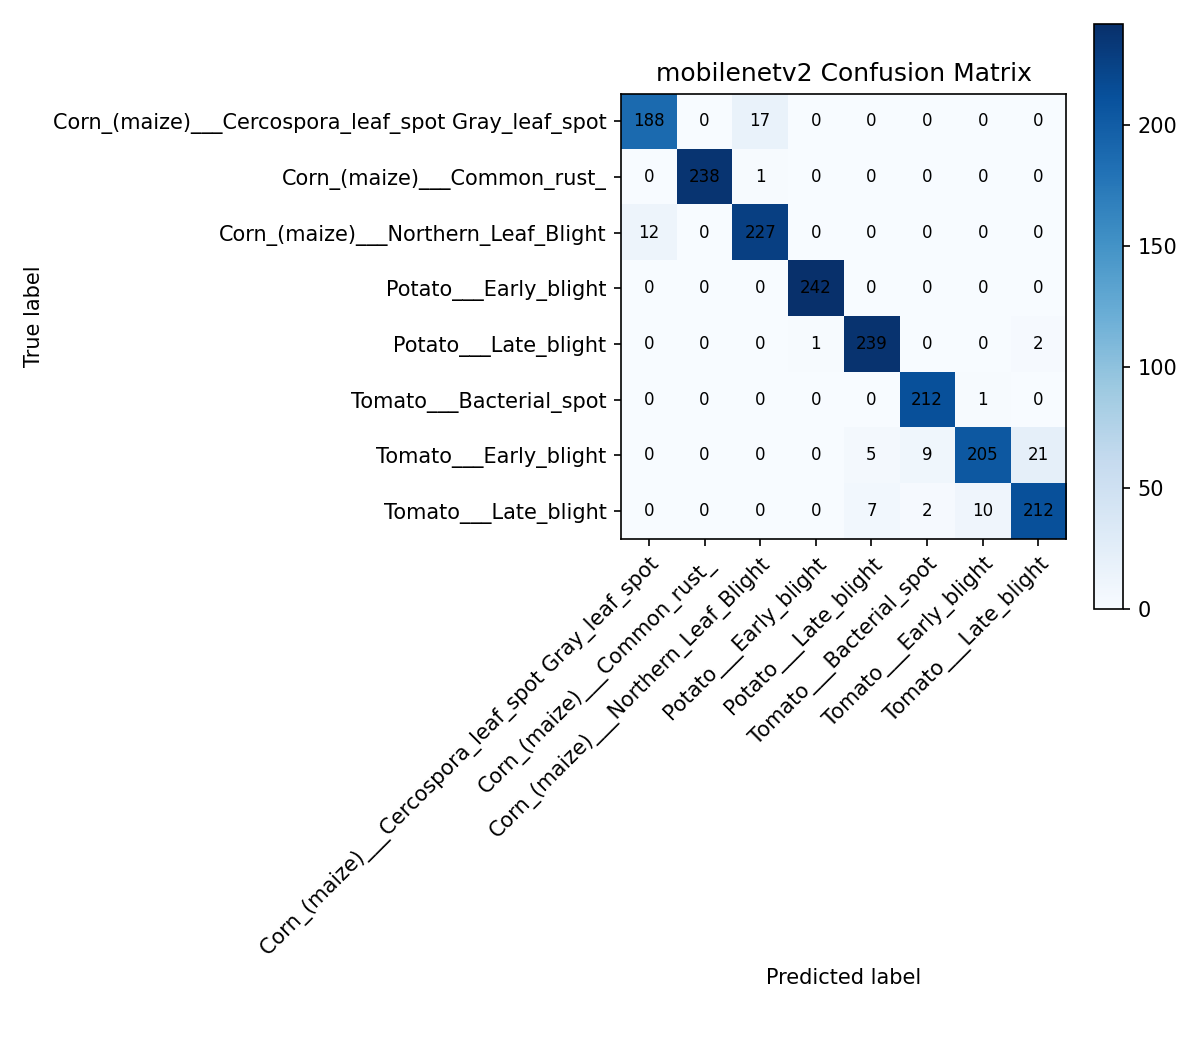
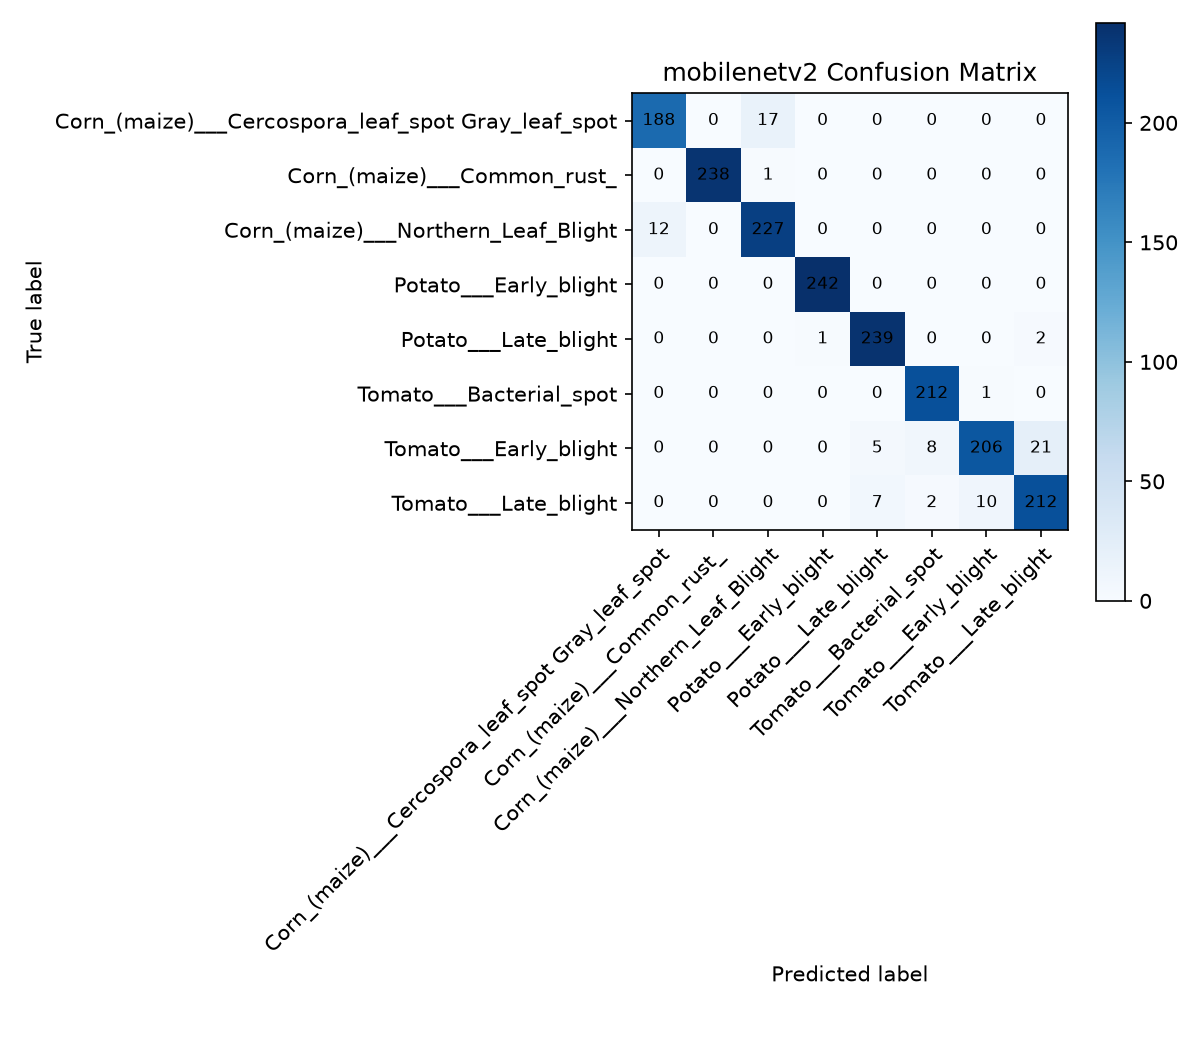
Add notebook-first EfficientNetB0 experiment

diff --git a/src/train_efficientnetb0.py b/src/train_efficientnetb0.py
@@ -1,0 +1,162 @@
+import argparse
+import json
+
+import matplotlib.pyplot as plt
+import tensorflow as tf
+
+from config import (
+    BATCH_SIZE,
+    EFFICIENTNET_EPOCHS,
+    FIGURES_DIR,
+    IMAGE_SIZE,
+    MODELS_DIR,
+    PROCESSED_DIR,
+    SEED,
+)
+from utils import make_dir
+
+
+def load_datasets(max_train_batches=None, max_valid_batches=None):
+    train_ds = tf.keras.utils.image_dataset_from_directory(
+        PROCESSED_DIR / "train",
+        image_size=IMAGE_SIZE,
+        batch_size=BATCH_SIZE,
+        label_mode="categorical",
+        seed=SEED,
+    )
+    valid_ds = tf.keras.utils.image_dataset_from_directory(
+        PROCESSED_DIR / "valid",
+        image_size=IMAGE_SIZE,
+        batch_size=BATCH_SIZE,
+        label_mode="categorical",
+        shuffle=False,
+    )
+
+    class_names = train_ds.class_names
+    if max_train_batches is not None:
+        train_ds = train_ds.take(max_train_batches)
+    if max_valid_batches is not None:
+        valid_ds = valid_ds.take(max_valid_batches)
+
+    autotune = tf.data.AUTOTUNE
+    return train_ds.prefetch(autotune), valid_ds.prefetch(autotune), class_names
+
+
+def build_efficientnetb0(num_classes):
+    data_augmentation = tf.keras.Sequential(
+        [
+            tf.keras.layers.RandomFlip("horizontal"),
+            tf.keras.layers.RandomRotation(0.04),
+            tf.keras.layers.RandomZoom(0.04),
+        ],
+        name="limited_augmentation",
+    )
+
+    base_model = tf.keras.applications.EfficientNetB0(
+        input_shape=(*IMAGE_SIZE, 3),
+        include_top=False,
+        weights="imagenet",
+    )
+    base_model.trainable = False
+
+    inputs = tf.keras.layers.Input(shape=(*IMAGE_SIZE, 3))
+    x = data_augmentation(inputs)
+    # EfficientNet includes its own input normalization layer.
+    x = base_model(x, training=False)
+    x = tf.keras.layers.GlobalAveragePooling2D()(x)
+    x = tf.keras.layers.Dropout(0.3)(x)
+    outputs = tf.keras.layers.Dense(num_classes, activation="softmax")(x)
+
+    model = tf.keras.Model(inputs, outputs, name="efficientnetb0_transfer")
+    model.compile(
+        optimizer=tf.keras.optimizers.Adam(learning_rate=0.0005),
+        loss="categorical_crossentropy",
+        metrics=["accuracy"],
+    )
+    return model
+
+
+def plot_history(history, output_name):
+    fig, axes = plt.subplots(1, 2, figsize=(10, 4))
+
+    axes[0].plot(history.history["accuracy"], label="Train")
+    axes[0].plot(history.history["val_accuracy"], label="Validation")
+    axes[0].set_title("EfficientNetB0 Accuracy")
+    axes[0].set_xlabel("Epoch")
+    axes[0].set_ylabel("Accuracy")
+    axes[0].legend()
+
+    axes[1].plot(history.history["loss"], label="Train")
+    axes[1].plot(history.history["val_loss"], label="Validation")
+    axes[1].set_title("EfficientNetB0 Loss")
+    axes[1].set_xlabel("Epoch")
+    axes[1].set_ylabel("Loss")
+    axes[1].legend()
+
+    plt.tight_layout()
+    output_path = FIGURES_DIR / output_name
+    plt.savefig(output_path, dpi=150)
+    plt.close()
+    print(f"Saved training curves: {output_path}")
+
+
+def parse_args():
+    parser = argparse.ArgumentParser(description="Train the optional EfficientNetB0 model.")
+    parser.add_argument("--epochs", type=int, default=EFFICIENTNET_EPOCHS)
+    parser.add_argument("--quick-test", action="store_true", help="Run a tiny training job for pipeline checking.")
+    parser.add_argument("--max-train-batches", type=int, default=None)
+    parser.add_argument("--max-valid-batches", type=int, default=None)
+    return parser.parse_args()
+
+
+def main():
+    args = parse_args()
+    make_dir(MODELS_DIR)
+    make_dir(FIGURES_DIR)
+
+    if args.quick_test:
+        args.epochs = min(args.epochs, 1)
+        args.max_train_batches = args.max_train_batches or 4
+        args.max_valid_batches = args.max_valid_batches or 2
+        print("Running EfficientNetB0 quick test. This is not a final model.")
+
+    train_ds, valid_ds, class_names = load_datasets(
+        max_train_batches=args.max_train_batches,
+        max_valid_batches=args.max_valid_batches,
+    )
+    (MODELS_DIR / "class_names.json").write_text(json.dumps(class_names, indent=2), encoding="utf-8")
+
+    model = build_efficientnetb0(num_classes=len(class_names))
+    model.summary()
+
+    model_filename = "efficientnetb0_quick.keras" if args.quick_test else "efficientnetb0.keras"
+    figure_filename = (
+        "efficientnetb0_quick_training_curves.png" if args.quick_test else "efficientnetb0_training_curves.png"
+    )
+    model_path = MODELS_DIR / model_filename
+    callbacks = [
+        tf.keras.callbacks.ModelCheckpoint(
+            str(model_path),
+            monitor="val_accuracy",
+            save_best_only=True,
+            verbose=1,
+        ),
+        tf.keras.callbacks.EarlyStopping(
+            monitor="val_loss",
+            patience=4,
+            restore_best_weights=True,
+        ),
+    ]
+
+    history = model.fit(
+        train_ds,
+        validation_data=valid_ds,
+        epochs=args.epochs,
+        callbacks=callbacks,
+    )
+    plot_history(history, figure_filename)
+    print(f"Best EfficientNetB0 model saved to: {model_path}")
+
+
+if __name__ == "__main__":
+    main()

diff --git a/app/streamlit-app.py b/app/streamlit-app.py
@@ -65,6 +65,7 @@ def get_available_models():
         "Simple CNN": MODELS_DIR / "simple_cnn.keras",
         "MobileNetV2": MODELS_DIR / "mobilenetv2.keras",
         "MobileNetV2 fine-tuned": MODELS_DIR / "mobilenetv2_finetuned.keras",
+        "EfficientNetB0": MODELS_DIR / "efficientnetb0.keras",
     }
     comparison = load_model_comparison()
 

diff --git a/src/config.py b/src/config.py
@@ -21,6 +21,7 @@ SEED = 42
 # that the full pipeline works on your computer.
 SIMPLE_CNN_EPOCHS = 12
 MOBILENET_EPOCHS = 12
+EFFICIENTNET_EPOCHS = 12
 VALID_TEST_SIZE = 0.5
 
 # Eight selected classes from tomato, potato and corn.

diff --git a/src/evaluate_models.py b/src/evaluate_models.py
@@ -115,6 +115,7 @@ def main():
         "simple_cnn": MODELS_DIR / "simple_cnn.keras",
         "mobilenetv2": MODELS_DIR / "mobilenetv2.keras",
         "mobilenetv2_finetuned": MODELS_DIR / "mobilenetv2_finetuned.keras",
+        "efficientnetb0": MODELS_DIR / "efficientnetb0.keras",
     }
 
     rows = []

diff --git a/README.md b/README.md
@@ -44,7 +44,7 @@ For lecturer review and team discussion, open this notebook first:
 notebooks/CDS6334_Plant_Disease_Recognition_Project.ipynb
 ```
 
-The notebook contains the complete project workflow: dataset audit, selected class preparation, train/validation/test split, Simple CNN training, MobileNetV2 training, fine-tuning, evaluation, confusion matrices, Grad-CAM examples and Streamlit app explanation.
+The notebook contains the complete project workflow: dataset audit, selected class preparation, train/validation/test split, Simple CNN training, MobileNetV2 training, MobileNetV2 fine-tuning, optional EfficientNetB0 training, evaluation, confusion matrices, Grad-CAM examples and Streamlit app explanation.
 
 By default, the notebook shows the saved results in `outputs/` without retraining. To regenerate outputs, change the `RUN_*` switches at the top of the notebook to `True`.
 
@@ -134,7 +134,7 @@ If a GPU device is listed, use the same training commands below inside WSL2.
 For WSL2 GPU training, install the CUDA-enabled TensorFlow package inside WSL if needed:
 
 ```bash
-pip install "tensorflow[and-cuda]>=2.16"
+pip install "tensorflow[and-cuda]==2.17.1" numpy==1.26.4 scipy==1.13.1 pandas scikit-learn matplotlib pillow opencv-python-headless streamlit ipykernel jupyter
 ```
 
 ## Step-by-Step Workflow
@@ -272,7 +272,22 @@ Optional fine-tuning after the first MobileNetV2 model is working:
 python src/fine_tune_mobilenetv2.py
 ```
 
-### 7. Evaluate both models
+### 7. Optional EfficientNetB0 experiment
+
+EfficientNetB0 is optional. Run it only after the Simple CNN and MobileNetV2 models are already working:
+
+```powershell
+python src/train_efficientnetb0.py
+```
+
+This saves:
+
+```text
+outputs/models/efficientnetb0.keras
+outputs/figures/efficientnetb0_training_curves.png
+```
+
+### 8. Evaluate all available models
 
 ```powershell
 python src/evaluate_models.py
@@ -310,7 +325,7 @@ outputs/figures/gradcam_examples/
 
 Each heatmap should be checked manually to explain whether the model focuses on visible leaf symptom regions or irrelevant background.
 
-### 9. Run the Streamlit application
+### 10. Run the Streamlit application
 
 ```powershell
 streamlit run app/streamlit-app.py
@@ -319,7 +334,7 @@ streamlit run app/streamlit-app.py
 The app allows users to:
 
 - upload one leaf image
-- choose Simple CNN, MobileNetV2 or fine-tuned MobileNetV2, with the best evaluated model selected by default
+- choose Simple CNN, MobileNetV2, fine-tuned MobileNetV2 or EfficientNetB0 if the model file exists, with the best evaluated model selected by default
 - optionally select a final test sample for demonstration and ground-truth checking
 - view the uploaded image
 - see the predicted class
@@ -348,11 +363,12 @@ The completed run used 8 selected classes with 14,808 training images, 1,851 val
 
 | Model | Test Accuracy | Macro Precision | Macro Recall | Macro F1 | Weighted F1 | Model Size | Avg Inference Time |
 | --- | ---: | ---: | ---: | ---: | ---: | ---: | ---: |
-| Simple CNN | 91.84% | 92.62% | 91.54% | 91.66% | 91.75% | 1.33 MB | 0.0049 s/image |
-| MobileNetV2 | 95.25% | 95.21% | 95.22% | 95.17% | 95.21% | 9.31 MB | 0.0222 s/image |
-| MobileNetV2 fine-tuned | 96.43% | 96.56% | 96.43% | 96.38% | 96.42% | 20.84 MB | 0.0222 s/image |
+| Simple CNN | 91.84% | 92.62% | 91.54% | 91.66% | 91.75% | 1.33 MB | 0.0021 s/image |
+| MobileNetV2 | 95.30% | 95.26% | 95.27% | 95.22% | 95.26% | 9.31 MB | 0.0029 s/image |
+| MobileNetV2 fine-tuned | 96.49% | 96.62% | 96.48% | 96.44% | 96.47% | 20.84 MB | 0.0024 s/image |
+| EfficientNetB0 optional | 96.81% | 96.88% | 96.72% | 96.76% | 96.80% | 16.39 MB | 0.0045 s/image |
 
-The fine-tuned MobileNetV2 achieved the strongest final test performance and is selected by default in the Streamlit demo. The app also includes Simple CNN and MobileNetV2 so users can compare model predictions.
+In this optional experiment, EfficientNetB0 achieved the strongest final test performance. MobileNetV2 fine-tuned remains the main required transfer-learning model, while EfficientNetB0 is treated as an additional comparison model.
 
 Generated results are saved in:
 

diff --git a/outputs/reports/final_results_summary.md b/outputs/reports/final_results_summary.md
@@ -1,29 +1,22 @@
 # Final Results Summary
 
-## Dataset
+This summary was generated from `outputs/reports/model_comparison.csv`.
 
-- Selected classes: 8 tomato, potato and corn disease classes
-- Training images: 14,808
-- Validation images: 1,851
-- Final test images: 1,851
-- Unreadable images detected: 0
+## Model Comparison
 
-## Model Comparison on Final Test Set
+| Model | Accuracy | Macro F1-score | Weighted F1-score | Model size | Avg inference time |
+|---|---:|---:|---:|---:|---:|
+| simple_cnn | 91.84% | 91.66% | 91.75% | 1.33 MB | 0.0021 s |
+| mobilenetv2 | 95.30% | 95.22% | 95.26% | 9.31 MB | 0.0029 s |
+| mobilenetv2_finetuned | 96.49% | 96.44% | 96.47% | 20.84 MB | 0.0024 s |
+| efficientnetb0 | 96.81% | 96.76% | 96.80% | 16.39 MB | 0.0045 s |
 
-| Model | Accuracy | Macro Precision | Macro Recall | Macro F1 | Weighted F1 | Model Size | Avg Inference Time |
-| --- | ---: | ---: | ---: | ---: | ---: | ---: | ---: |
-| Simple CNN | 91.84% | 92.62% | 91.54% | 91.66% | 91.75% | 1.33 MB | 0.0049 s/image |
-| MobileNetV2 | 95.25% | 95.21% | 95.22% | 95.17% | 95.21% | 9.31 MB | 0.0222 s/image |
-| MobileNetV2 fine-tuned | 96.43% | 96.56% | 96.43% | 96.38% | 96.42% | 20.84 MB | 0.0222 s/image |
+## Main Observation
 
-## Main Finding
+The best result in this run is `efficientnetb0` with accuracy 96.81% and macro F1-score 96.76%.
 
-The fine-tuned MobileNetV2 achieved the best overall classification performance. The Simple CNN is smaller and slightly faster, but the fine-tuned MobileNetV2 is the better main model for the final Streamlit prototype because it has the highest accuracy and strongest macro F1-score.
-
-## Grad-CAM
-
-Grad-CAM examples were generated for 3 correct predictions and 3 incorrect predictions where available. The incorrect examples mainly show confusion between corn gray leaf spot and northern leaf blight, which is useful for the error analysis section.
+MobileNetV2 fine-tuned remains the main required transfer-learning model for the coursework. EfficientNetB0 is reported as an optional additional experiment.
 
 ## Honest Limitation
 
-The dataset images are mostly controlled leaf images, so the prototype is suitable for educational and preliminary screening purposes only. It should not be presented as a replacement for expert agricultural diagnosis.
+The models perform best on images similar to the selected Kaggle/PlantVillage-style dataset. Real-world images with different lighting, background, camera distance or symptom appearance may be harder and should be treated as preliminary screening only.